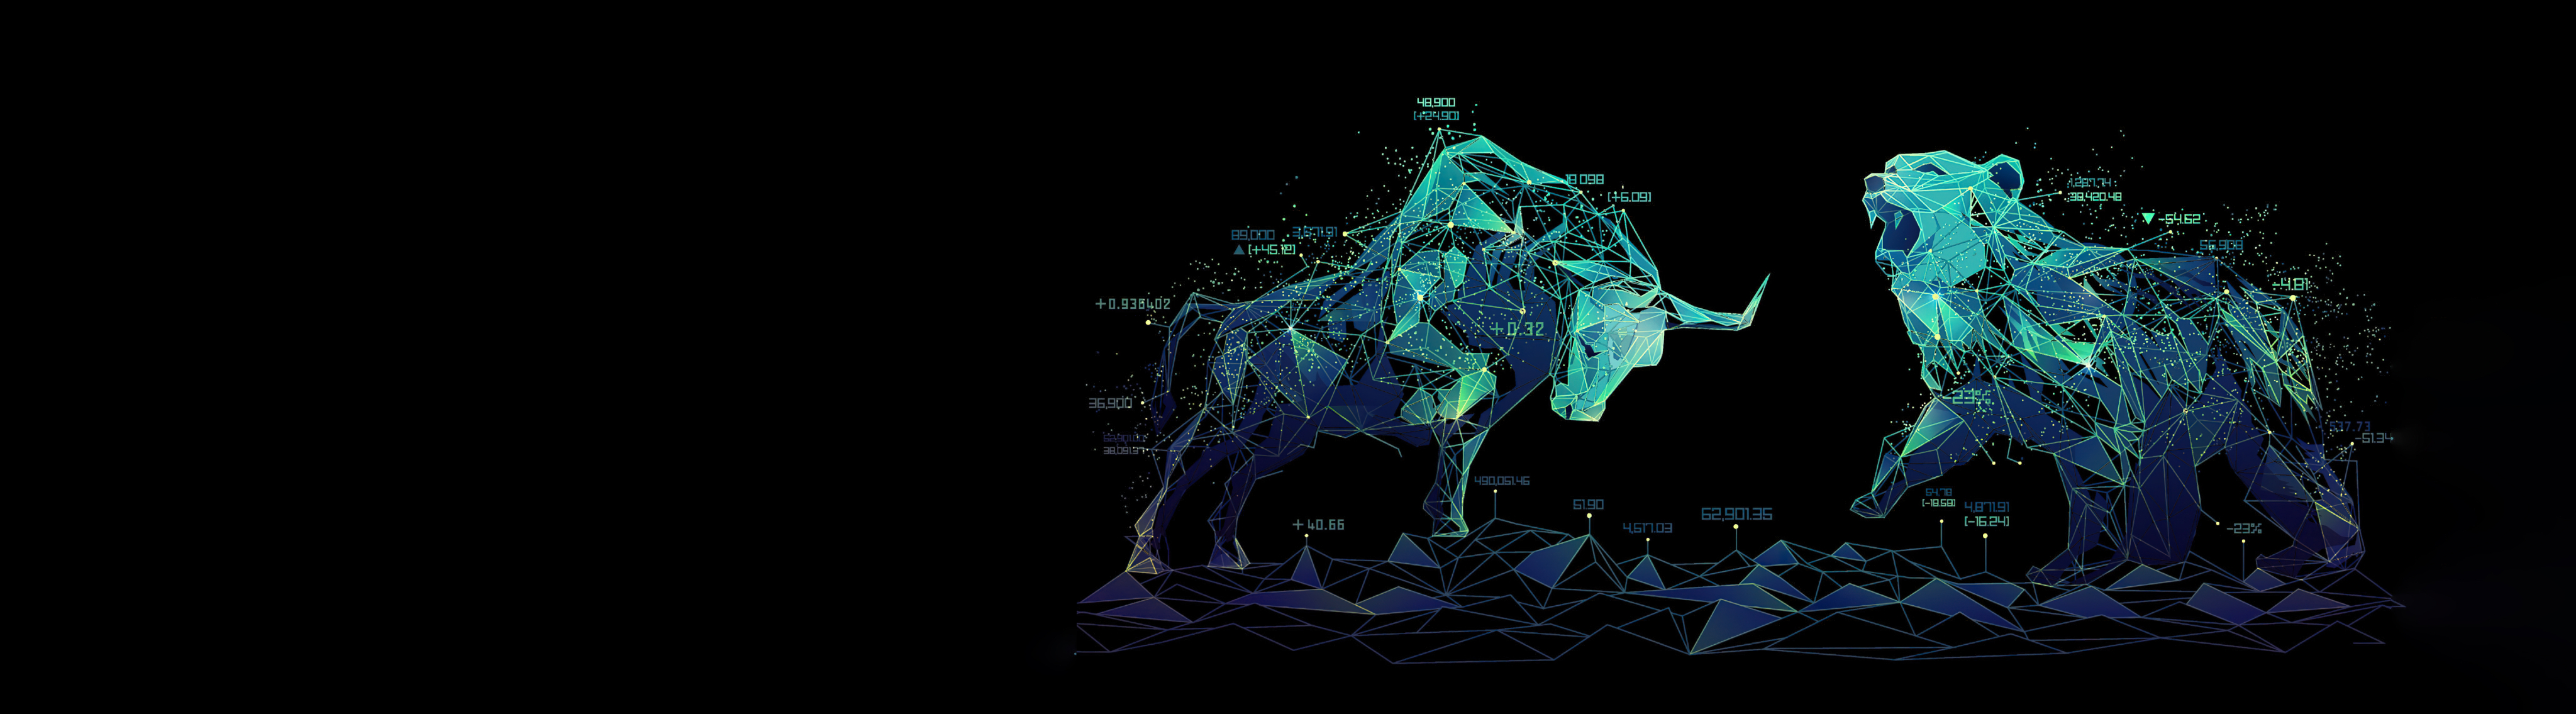
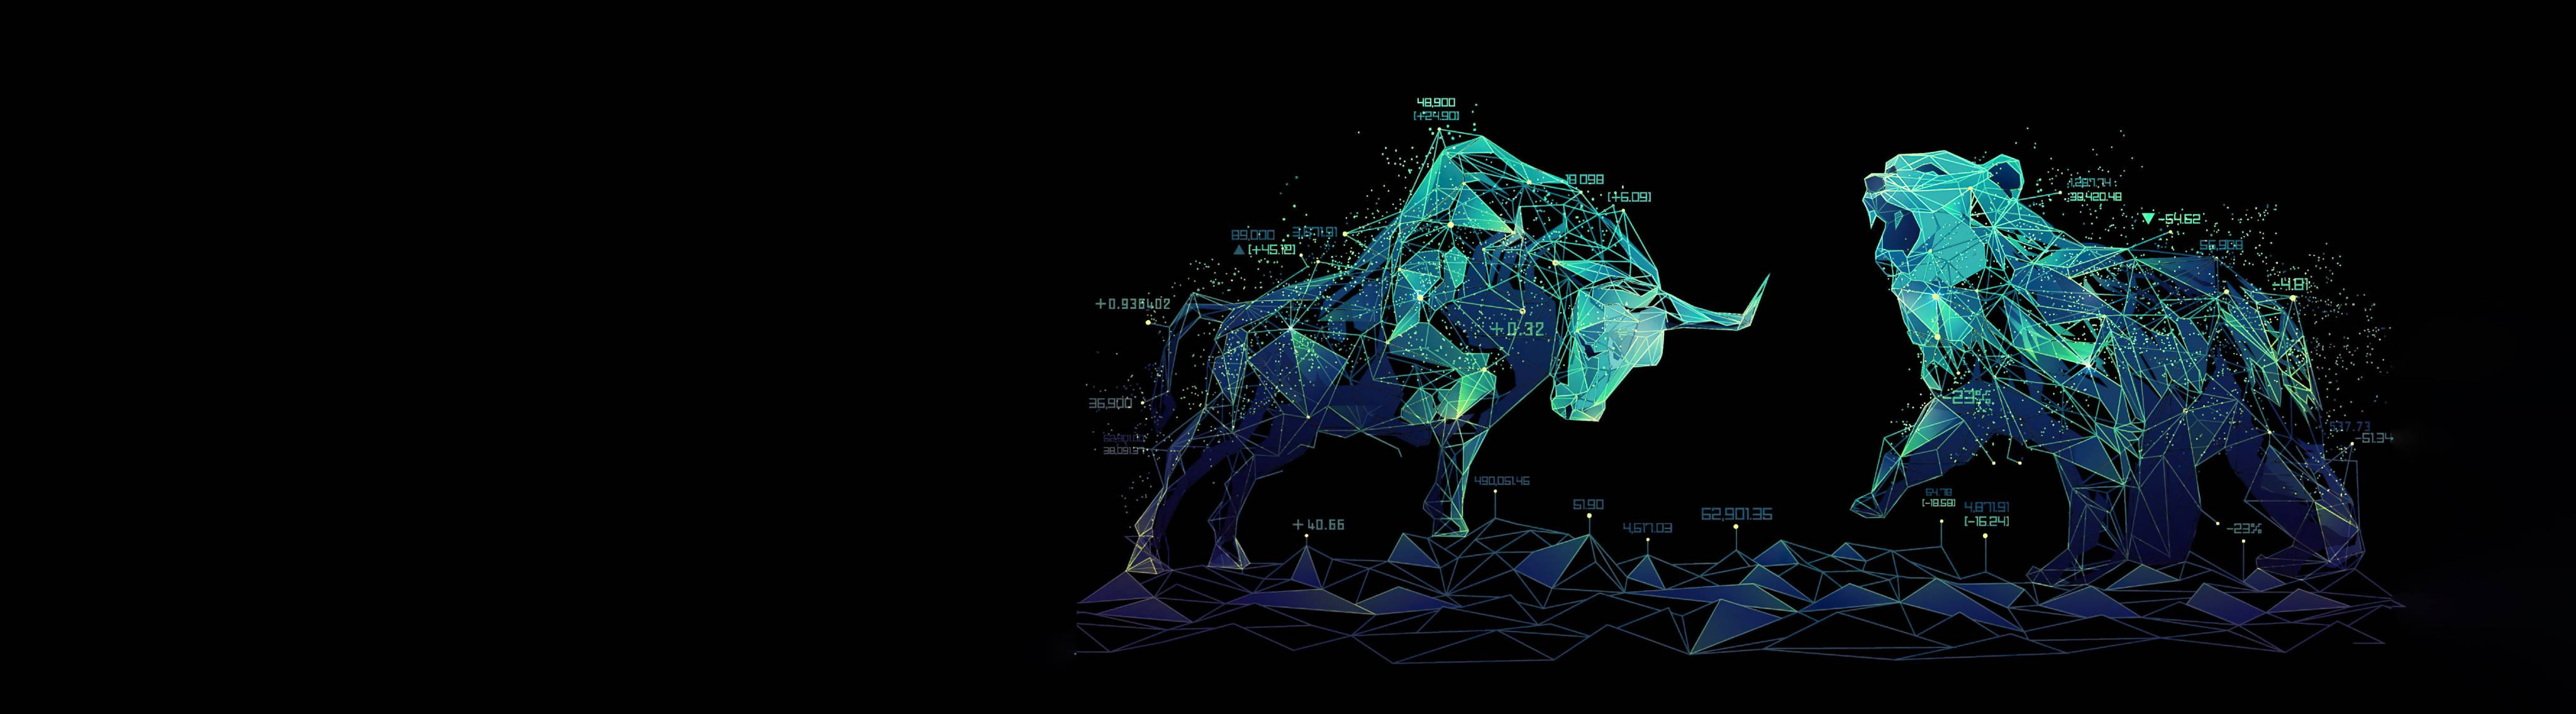
perf: cut homepage load from 3.9s to ~1.5s
- OPcache enabled with tuned settings (docker/php/php.ini)
- Apache gzip compression + 1-month cache headers on static assets
- YII_DEBUG=false + prod env eliminates debug toolbar (284→56 requests)
- TradingView & Google Maps iframes replaced with click-to-load placeholders
- MobileDetect removed (PHP 8.2 incompatible); replaced with srcset
- Hero images compressed: home-page 1.9MB→295KB, black 442KB→42KB
- Fonts reduced from 11 to 7 @user; added font-display:swap
- Translation cache 1h, minified jQuery override, asset timestamps

Changed region(s): [[0.7188, 0.2159, 0.9062, 0.6476], [0.4688, 0.185, 0.6875, 0.5859]]

diff --git a/frontend/web/css/fonts.css b/frontend/web/css/fonts.css
@@ -1,78 +1,62 @@
-/* Define the Roboto font family with different weights */
-@font-face {
-    font-family: 'Roboto';
-    src: url('../fonts/roboto/Roboto-Light.woff2') format('woff2');
-    font-weight: 300; /* Light */
-    font-style: normal;
-}
+/* font-display: swap — text stays visible while fonts load, avoiding FOIT */
 
+/* ── Roboto (used in main-banner.css) — keep only essential weights ─────── */
 @font-face {
     font-family: 'Roboto';
     src: url('../fonts/roboto/Roboto-Regular.woff2') format('woff2');
-    font-weight: 400; /* Regular */
+    font-weight: 400;
     font-style: normal;
-}
-
-@font-face {
-    font-family: 'Roboto';
-    src: url('../fonts/roboto/Roboto-Bold.woff2') format('woff2');
-    font-weight: 700; /* Bold */
-    font-style: normal;
+    font-display: swap;
 }
 
 @font-face {
     font-family: 'Roboto';
     src: url('../fonts/roboto/Roboto-Medium.woff2') format('woff2');
-    font-weight: 500; /* Medium */
+    font-weight: 500;
     font-style: normal;
+    font-display: swap;
 }
 
 @font-face {
     font-family: 'Roboto';
-    src: url('../fonts/roboto/Roboto-Thin.woff2') format('woff2');
-    font-weight: 100; /* Thin */
+    src: url('../fonts/roboto/Roboto-Bold.woff2') format('woff2');
+    font-weight: 700;
     font-style: normal;
+    font-display: swap;
 }
 
-/* Define the Inter font family with different weights */
-@font-face {
-    font-family: 'Inter';
-    src: url('../fonts/inter/Inter-Thin.woff2') format('woff2');
-    font-weight: 100; /* Thin */
-    font-style: normal;
-}
+/* Light + Thin weights aliased to Regular so the browser doesn't download separate files */
+/* (browser will use 400 and apply synthetic scaling) */
 
-@font-face {
-    font-family: 'Inter';
-    src: url('../fonts/inter/Inter-Light.woff2') format('woff2');
-    font-weight: 300; /* Light */
-    font-style: normal;
-}
-
+/* ── Inter (main UI font) — keep only 3 weights instead of 6 ──────────── */
 @font-face {
     font-family: 'Inter';
     src: url('../fonts/inter/Inter-Regular.woff2') format('woff2');
-    font-weight: 400; /* Regular */
+    font-weight: 400;
     font-style: normal;
+    font-display: swap;
 }
 
 @font-face {
     font-family: 'Inter';
     src: url('../fonts/inter/Inter-Medium.woff2') format('woff2');
-    font-weight: 500; /* Medium */
+    font-weight: 500;
     font-style: normal;
+    font-display: swap;
 }
 
 @font-face {
     font-family: 'Inter';
     src: url('../fonts/inter/Inter-SemiBold.woff2') format('woff2');
-    font-weight: 600; /* SemiBold */
+    font-weight: 600;
     font-style: normal;
+    font-display: swap;
 }
 
 @font-face {
     font-family: 'Inter';
     src: url('../fonts/inter/Inter-Bold.woff2') format('woff2');
-    font-weight: 700; /* Bold */
+    font-weight: 700;
     font-style: normal;
+    font-display: swap;
 }

diff --git a/frontend/views/site/index.php b/frontend/views/site/index.php
@@ -19,12 +19,12 @@ use yii\widgets\ActiveForm;
 use kartik\select2\Select2;
 use yii\db\Query;
 use common\models\MetalPriceReal;
-use Detection\MobileDetect;
+// Detection\MobileDetect removed — PHP 8.2 type incompatibility; use CSS/srcset instead
 use common\components\UserComponent;
 use common\models\Language;
 
 
-$detect = new MobileDetect;
+// Mobile detection via CSS (media queries) — no PHP needed
 
 $language = Language::find()->where(['short_code' => Yii::$app->language])->one();
 
@@ -108,7 +108,12 @@ $metalPriceApiData = MetalPriceReal::find()
 
 <section class="position-relative main-banner bg-black-color">
     <div class="position-absolute top-0 start-0 left-0 w-100 h-100 img-div">
-        <img class="w-100 h-100" src="<?php if(!$detect->isMobile()): ?>/images/home-page.jpeg<?php else: ?>/images/home-page-small.jpg<?php endif; ?>" alt="Banner Image" height="400" width="1442"/>
+        <!-- Use srcset for responsive image — avoids PHP MobileDetect dependency -->
+        <img class="w-100 h-100"
+             src="/images/home-page.jpeg"
+             srcset="/images/home-page-small.jpg 768w, /images/home-page.jpeg 1442w"
+             sizes="(max-width: 768px) 768px, 1442px"
+             alt="Banner Image" height="400" width="1442" loading="eager"/>
     </div>
     <div class="row w-100 container mx-auto position-relative zindex-offcanvas-backdrop h-100 px-3 px-md-0 d-flex align-items-end">
         <div class="col-md-4 col-12 px-0">
@@ -314,7 +319,15 @@ $metalPriceApiData = MetalPriceReal::find()
                         </div>
                     </div>
                     <div class="table primary-color" id="trade" role="tabpanel" aria-labelledby="global-tab">
-                        <iframe title="advanced chart TradingView widget" lang="en" id="tradingview_6e6d6" frameborder="0" allowtransparency="true" scrolling="no" allowfullscreen="true" src="https://s.tradingview.com/kitco/widgetembed/?hideideas=1&amp;overrides=%7B%7D&amp;enabled_features=%5B%5D&amp;disabled_features=%5B%5D&amp;locale=en#%7B%22symbol%22%3A%22XAUUSD%22%2C%22frameElementId%22%3A%22tradingview_6e6d6%22%2C%22interval%22%3A%221%22%2C%22hide_side_toolbar%22%3A%221%22%2C%22allow_symbol_change%22%3A%221%22%2C%22save_image%22%3A%220%22%2C%22studies%22%3A%22%5B%5D%22%2C%22theme%22%3A%22light%22%2C%22style%22%3A%221%22%2C%22timezone%22%3A%22America%2FNew_York%22%2C%22withdateranges%22%3A%221%22%2C%22studies_overrides%22%3A%22%7B%7D%22%2C%22utm_source%22%3A%22www.kitco.com%22%2C%22utm_medium%22%3A%22widget_new%22%2C%22utm_campaign%22%3A%22chart%22%2C%22utm_term%22%3A%22XAUUSD%22%2C%22page-uri%22%3A%22www.kitco.com%2Fcharts%2Fgold%22%7D" style="width: 100%; height: 600px;"></iframe>
+                        <!-- TradingView chart: loaded lazily only when the Trade tab is active -->
+                        <div id="tradingview-placeholder"
+                             data-src="https://s.tradingview.com/kitco/widgetembed/?hideideas=1&overrides=%7B%7D&enabled_features=%5B%5D&disabled_features=%5B%5D&locale=en#%7B%22symbol%22%3A%22XAUUSD%22%2C%22frameElementId%22%3A%22tv_gold%22%2C%22interval%22%3A%221%22%2C%22hide_side_toolbar%22%3A%221%22%2C%22allow_symbol_change%22%3A%221%22%2C%22save_image%22%3A%220%22%2C%22theme%22%3A%22light%22%2C%22style%22%3A%221%22%2C%22timezone%22%3A%22America%2FNew_York%22%2C%22withdateranges%22%3A%221%22%7D"
+                             style="width:100%;height:500px;display:flex;align-items:center;justify-content:center;background:#0a1818;color:#53E2D9;cursor:pointer;border-radius:4px;">
+                            <div class="text-center">
+                                <i class="bi bi-bar-chart-line" style="font-size:2.5rem;"></i>
+                                <p class="mt-2 mb-0"><?= Yii::t('app', 'Click to load live gold chart') ?></p>
+                            </div>
+                        </div>
                     </div>
 
                     <a href="/<?=Yii::$app->language?>/more-details" class="info-text"><?=Yii::t('app', 'Show more')?> <i class="bi bi-arrow-right-short"></i></a>
@@ -372,7 +385,53 @@ $metalPriceApiData = MetalPriceReal::find()
 
     <!-- Background Map -->
 
-    <div class="map-background w-100 position-absolute">
-            <iframe src="https://www.google.com/maps/embed?pb=!1m18!1m12!1m3!1d3048.529914386416!2d44.506797176539166!3d40.17501897031453!2m3!1f0!2f0!3f0!3m2!1i1024!2i768!4f13.1!3m3!1m2!1s0x406abddabe0c3071%3A0x4aa102e32cb6e5f7!2sGoldmember!5e0!3m2!1sen!2sam!4v1730750217913!5m2!1sen!2sam" width="100%" height="100%" style="border:0;" allowfullscreen="" loading="lazy" referrerpolicy="no-referrer-when-downgrade"></iframe>
+    <div class="map-background w-100 position-absolute" id="map-container"
+         style="background:linear-gradient(135deg,#0d2020 0%,#071414 100%);cursor:pointer;"
+         data-map-src="https://www.google.com/maps/embed?pb=!1m18!1m12!1m3!1d3048.529914386416!2d44.506797176539166!3d40.17501897031453!2m3!1f0!2f0!3f0!3m2!1i1024!2i768!4f13.1!3m3!1m2!1s0x406abddabe0c3071%3A0x4aa102e32cb6e5f7!2sGoldmember!5e0!3m2!1sen!2sam!4v1730750217913!5m2!1sen!2sam"
+         title="Click to load map">
+        <div style="position:absolute;top:50%;left:50%;transform:translate(-50%,-50%);text-align:center;color:#13B2AD;pointer-events:none;">
+            <i class="bi bi-geo-alt" style="font-size:2rem;"></i>
+            <p class="small mt-1" style="color:#53E2D9;">20 Movses Khorenatsi Street, Yerevan</p>
+        </div>
     </div><!-- End Contact Form -->
 </section>
+
+<script>
+// Lazy-load iframes on click (TradingView chart + Google Maps)
+// Prevents ~250 extra network requests on page load
+(function () {
+    function lazyIframe(placeholderId, srcAttr, iframeAttrs) {
+        var ph = document.getElementById(placeholderId);
+        if (!ph) return;
+        ph.addEventListener('click', function () {
+            var src = ph.getAttribute(srcAttr);
+            var iframe = document.createElement('iframe');
+            Object.assign(iframe, iframeAttrs);
+            iframe.src = src;
+            iframe.style.cssText = 'width:100%;height:100%;border:0;';
+            ph.parentNode.replaceChild(iframe, ph);
+        }, { once: true });
+    }
+
+    lazyIframe('tradingview-placeholder', 'data-src', {
+        title: 'Gold price chart', frameBorder: '0',
+        allowTransparency: true, scrolling: 'no', allowFullscreen: true
+    });
+
+    // Map container
+    var mc = document.getElementById('map-container');
+    if (mc) {
+        mc.addEventListener('click', function () {
+            var src = mc.getAttribute('data-map-src');
+            var iframe = document.createElement('iframe');
+            iframe.src = src; iframe.allowFullscreen = true;
+            iframe.setAttribute('loading', 'lazy');
+            iframe.setAttribute('referrerpolicy', 'no-referrer-when-downgrade');
+            iframe.style.cssText = 'width:100%;height:100%;border:0;';
+            mc.innerHTML = '';
+            mc.appendChild(iframe);
+            mc.style.cursor = 'default';
+        }, { once: true });
+    }
+})();
+</script>

diff --git a/frontend/config/main.php b/frontend/config/main.php
@@ -94,10 +94,23 @@ return [
         'errorHandler' => [
             'errorAction' => 'site/error',
         ],
+        'cache' => [
+            'class' => 'yii\caching\FileCache',
+        ],
+        'assetManager' => [
+            'appendTimestamp' => true,  // adds ?v=timestamp for cache-busting
+            'bundles' => [
+                // Force minified jQuery regardless of YII_DEBUG
+                'yii\web\JqueryAsset' => [
+                    'js' => ['jquery.min.js'],
+                ],
+            ],
+        ],
         'i18n' => [
             'translations' => [
                 'app*' => [
-                    'class' => 'yii\i18n\DbMessageSource',
+                    'class'           => 'yii\i18n\DbMessageSource',
+                    'cachingDuration' => 3600, // cache translations for 1 hour
                 ],
             ],
         ],